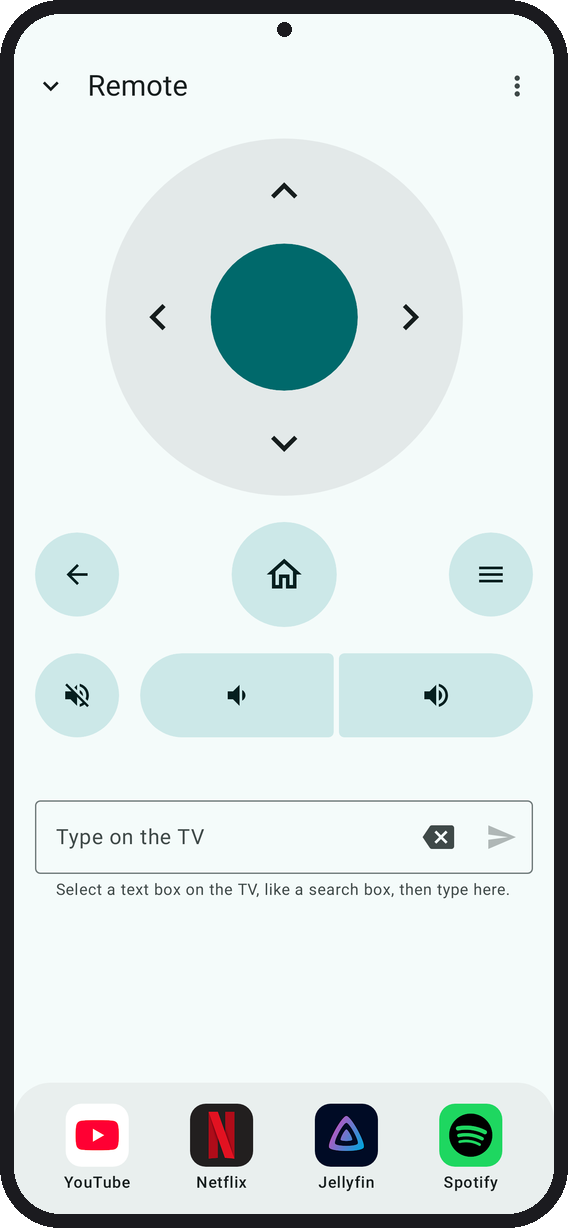
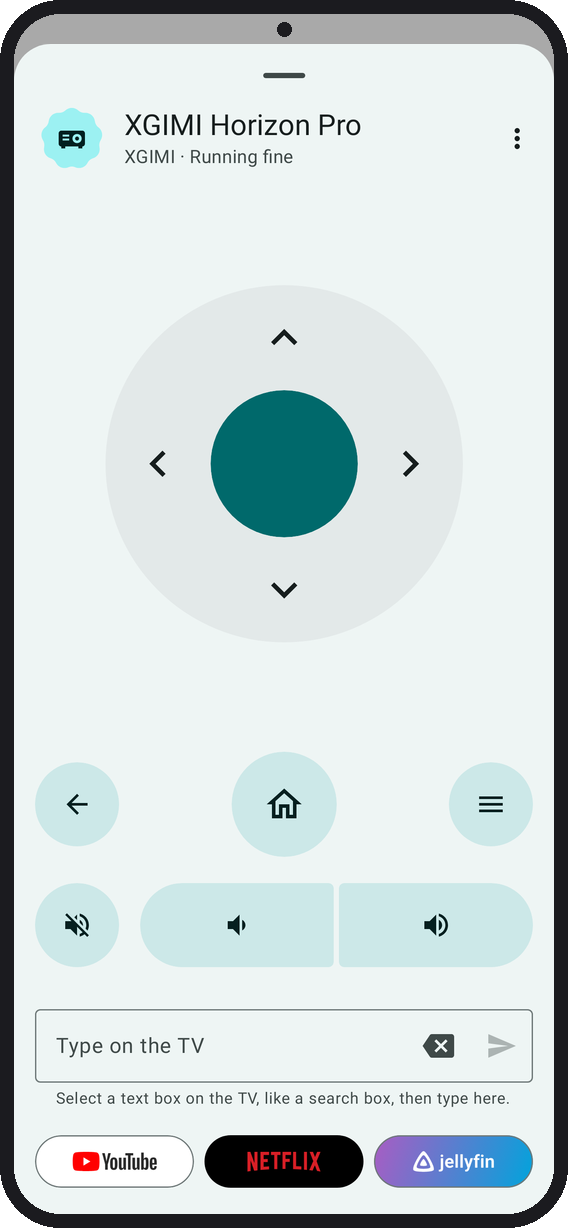
README: Remote screenshot with the streaming buttons
remote.png still showed the old dock of four app icons. Re-rendered
from the Remote dock-full screenshot test, which now loads the real
YouTube, Netflix and Jellyfin logos from test resources, so the row of
three buttons looks as it does on a phone. Without them the YouTube
button's name rendered white on white. The alt text describes the new
row, and NOTICE covers the copied logos.

diff --git a/app/src/test/java/app/tellyscope/ScreenshotTest.kt b/app/src/test/java/app/tellyscope/ScreenshotTest.kt
@@ -49,6 +49,7 @@ import app.tellyscope.data.AppInfo
 import app.tellyscope.data.Docked
 import app.tellyscope.data.AppNames
 import app.tellyscope.data.Device
+import app.tellyscope.data.DeviceLists
 import app.tellyscope.data.DeviceState
 import app.tellyscope.data.FakeDeviceSource
 import app.tellyscope.data.HistoryEntry
@@ -58,6 +59,7 @@ import app.tellyscope.data.TvTweaks
 import app.tellyscope.data.ListEntry
 import app.tellyscope.data.PickedApp
 import app.tellyscope.data.ScanHit
+import app.tellyscope.data.SharedLists
 import app.tellyscope.data.ScanKind
 import app.tellyscope.data.ScanProgress
 import app.tellyscope.data.Suggested
@@ -131,8 +133,10 @@ import com.github.takahirom.roborazzi.captureRoboImage
 import com.github.takahirom.roborazzi.captureScreenRoboImage
 import java.io.ByteArrayOutputStream
 import java.io.File
+import java.io.IOException
 import java.io.RandomAccessFile
 import java.nio.file.Files
+import java.security.MessageDigest
 import kotlin.random.Random
 import kotlinx.coroutines.runBlocking
 import org.junit.Assert.assertEquals
@@ -1141,7 +1145,30 @@ class ScreenshotTest {
      */
     private fun realIcon(pkg: String): ByteArray? = javaClass.classLoader?.getResourceAsStream("dock-icons/$pkg.png")?.use { it.readBytes() }
 
-    @Test fun remote_dockFull() {
+    /**
+     * [body] with the Remote's lists offline but holding these services' real logos, as on a phone
+     * that has downloaded them; test resources only (see NOTICE). The lists go back to none after.
+     */
+    private fun withLogos(vararg names: String, body: () -> Unit) {
+        fun sha256(b: ByteArray) = MessageDigest.getInstance("SHA-256").digest(b).joinToString("") { "%02x".format(it) }
+        val offline: suspend (String) -> ByteArray = { throw IOException("offline") }
+        val dir = Files.createTempDirectory("logos").toFile()
+        val logos = names.joinToString { n ->
+            val png = javaClass.classLoader!!.getResourceAsStream("streaming-logos/$n.png")!!.use { it.readBytes() }
+            File(dir, "logos").mkdirs()
+            File(dir, "logos/$n.png").writeBytes(png)
+            """"$n": {"file": "logos/$n.png", "sha256": "${sha256(png)}"}"""
+        }
+        File(dir, "index.json").writeText("""{"schema": 1, "devices": [], "logos": {$logos}}""")
+        runBlocking { SharedLists.load(DeviceLists(dir, offline)) }
+        try { body() } finally {
+            runBlocking { SharedLists.load(DeviceLists(Files.createTempDirectory("none").toFile(), offline)) }
+            dir.deleteRecursively()
+        }
+    }
+
+    // The README's Remote: a full row of streaming buttons, with their logos.
+    @Test fun remote_dockFull() = withLogos("youtube", "netflix", "jellyfin") {
         val three = docked + Docked("org.jellyfin.androidtv", "Jellyfin")
         shot("12_remote_dock_full", screen = true) { RemoteScreen(remoteState(apps = three), RemoteActions()) }
         // A full row has no Remote buttons pill.

diff --git a/README.md b/README.md
@@ -19,7 +19,7 @@ Debloat your Android TV, install apps, and browse and transfer files on it, all 
 <table>
   <tr>
     <td width="25%"><img src="docs/screenshots/tv-page.png" alt="A TV's page: the TV at a glance, its vitals, and the Install, Debloat and Send buttons"></td>
-    <td width="25%"><img src="docs/screenshots/remote.png" alt="The Remote: Screen off and Restart under a menu in the top bar, a D-pad, icon keys for Back, Home, Menu, mute and volume, typing on the TV with a backspace key, and a dock of four TV apps along the bottom"></td>
+    <td width="25%"><img src="docs/screenshots/remote.png" alt="The Remote: Screen off and Restart under a menu in the top bar, a D-pad, icon keys for Back, Home, Menu, mute and volume, typing on the TV with a backspace key, and three streaming buttons along the bottom: YouTube, Netflix and Jellyfin"></td>
     <td width="25%"><img src="docs/screenshots/debloat.png" alt="Debloat: the TV's model on top, then the apps it will turn off, each with its package name"></td>
     <td width="25%"><img src="docs/screenshots/install.png" alt="Installing Kodi on the TV from an APK on the phone: the dialog says it is not on this TV yet"></td>
   </tr>
